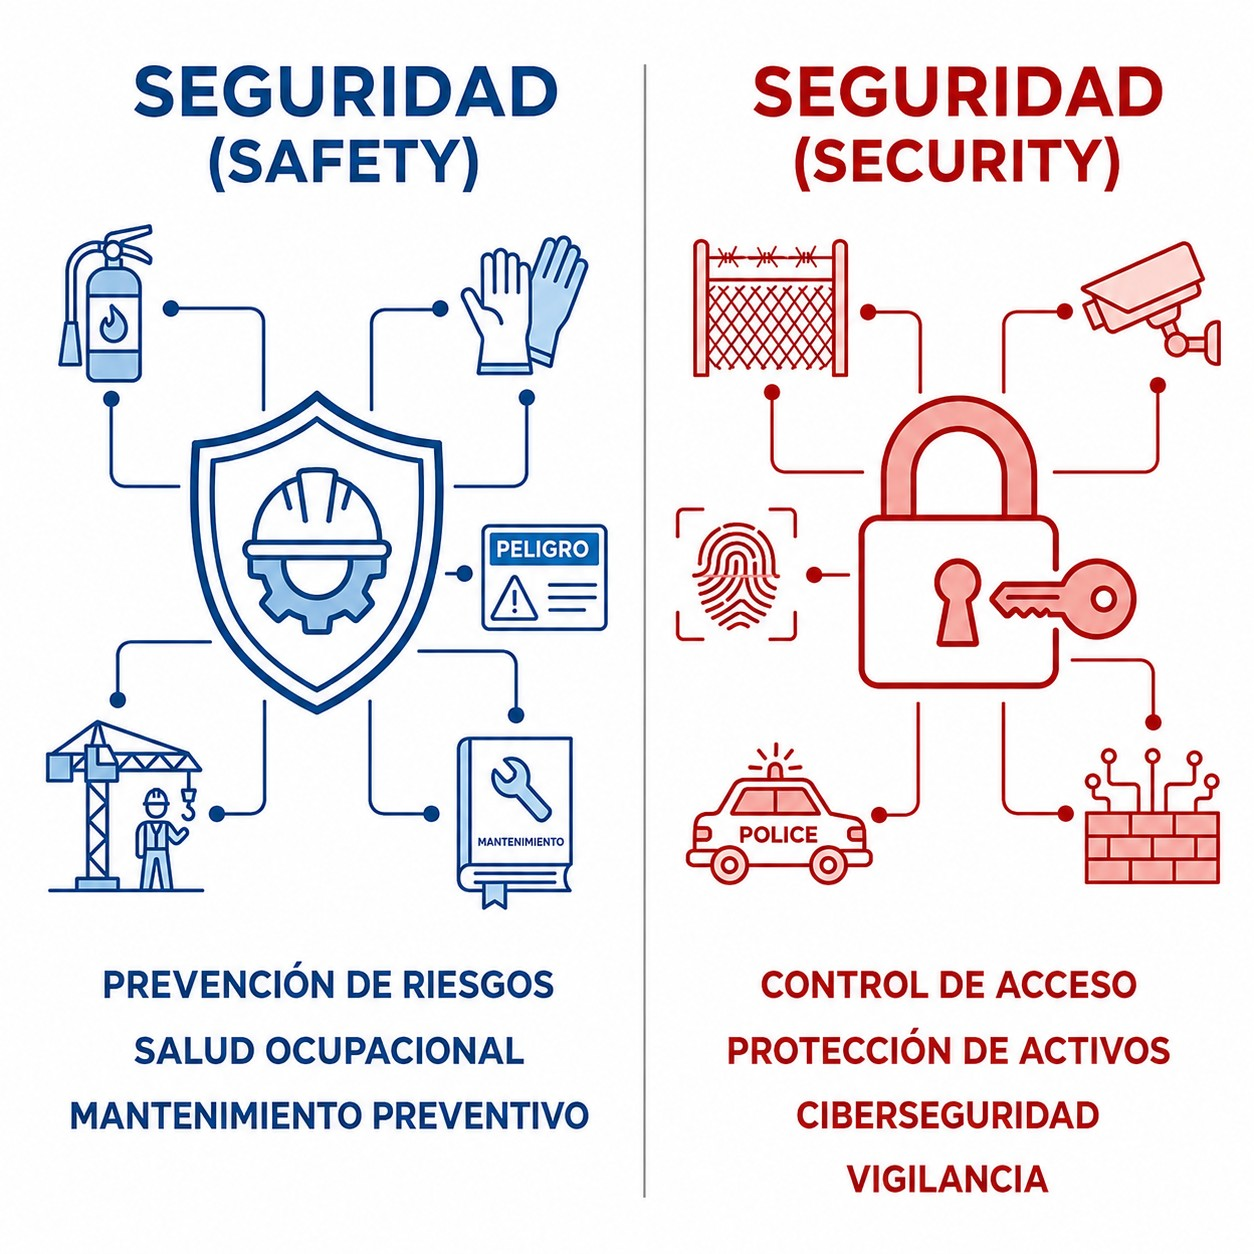
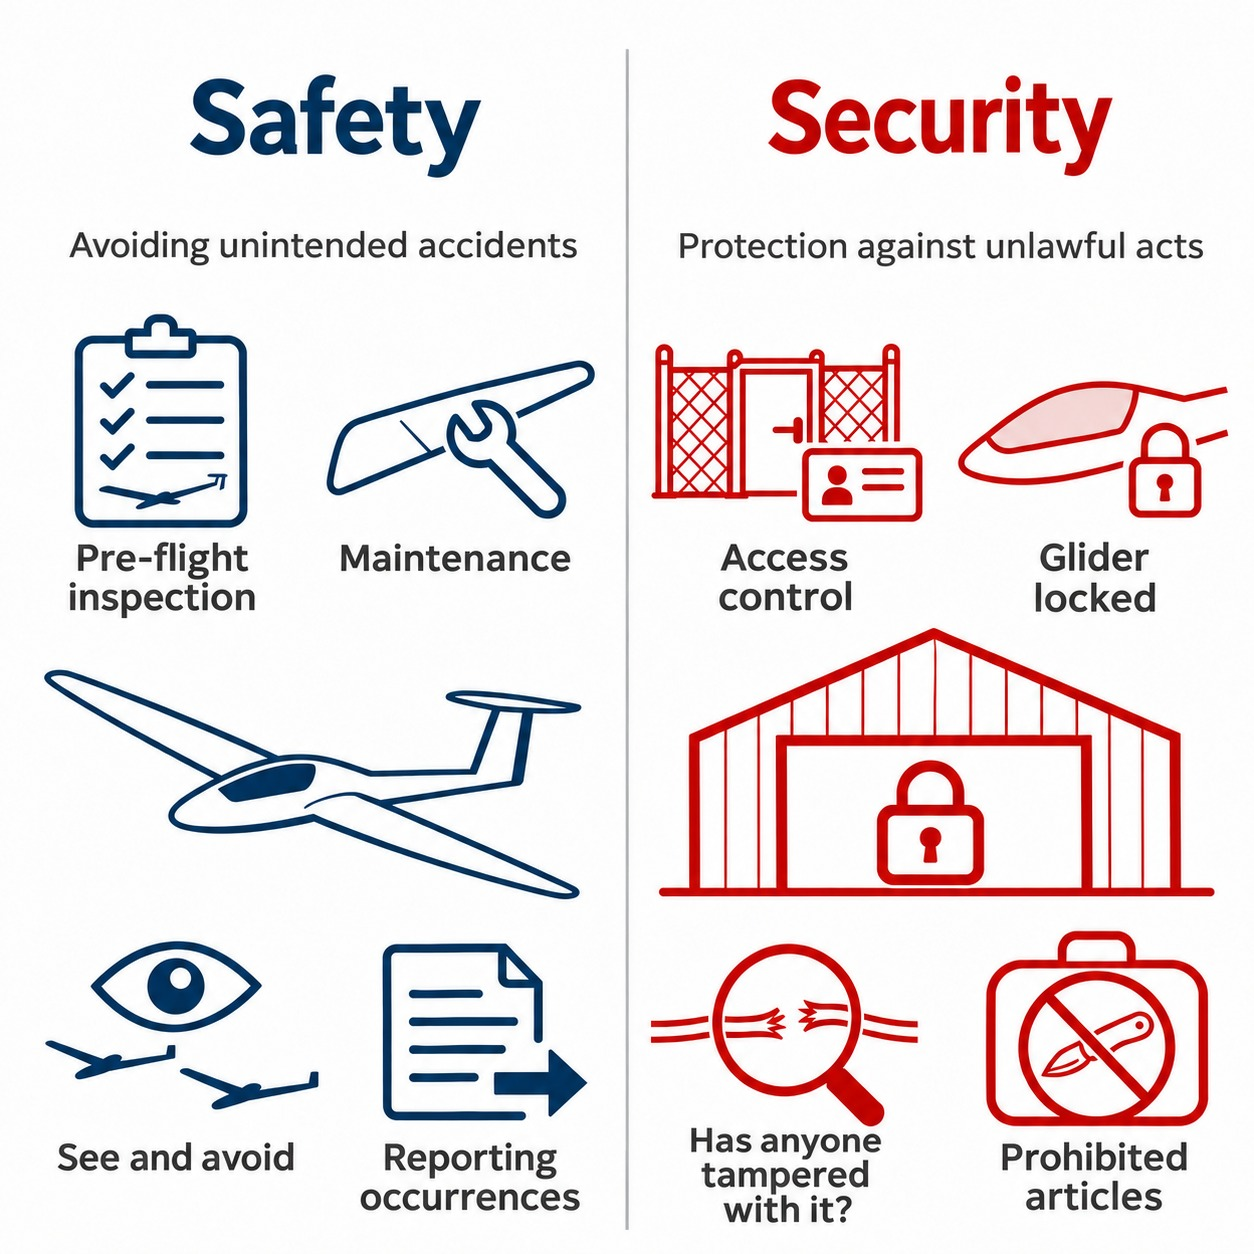
fix(01): sustituir las siete figuras ilustradas señaladas en la auditoría
Seis figuras se rehacen con ChatGPT a partir del prompt de su ficha, y la
inglesa es la española aceptada con los rótulos traducidos:

- cap01: libertades del aire; el país de la aeronave es siempre el «país
  de origen», también en la quinta, cuyo tramo entre B y C se destaca.
- cap05: prioridades de paso, con viñetas rotuladas, rumbos claros y
  quien cede en ámbar; alturas mínimas, con los 300 m desde el obstáculo
  más alto y el planeador de ladera a barlovento.
- cap08: dependencias ATC, con el ACC fuera del aeropuerto y la torre
  con el circuito.
- cap10: circuito de tránsito con un planeador, sin IP ni «tramo de
  entrada».
- cap12: safety frente a security, sin seguridad laboral ni
  ciberseguridad.

La ubicación de la matrícula (cap03) se conserva por decisión editorial;
la edición inglesa recibe el mismo dibujo con los rótulos traducidos. Su
ficha guarda los reparos de la auditoría como observaciones.

Las siete pierden la clase .corregir y la nota del pie en las dos
ediciones; ya no queda ninguna figura marcada en el libro 01. En cap05,
la remisión a la figura de prioridades pasa del caso del aterrizaje a la
frase que abre «Situaciones de conflicto». Fichas, seguimiento y los dos
CHANGELOG al día. Comprobadas en PDF, EPUB, RAG y web.

Refs #58

diff --git a/01-derecho-aereo-atc/prompts/01-cap05-prioridades-paso.prompt.md b/01-derecho-aereo-atc/prompts/01-cap05-prioridades-paso.prompt.md
@@ -5,7 +5,7 @@ tipo: diagrama-conceptual
 estado: borrador
 fecha: "2026-11-20"
 herramienta:
-  nombre: ""
+  nombre: "ChatGPT (chatgpt.com)"
   version: ""
 fuentes:
   - referencia: "Reglamento de Ejecución (UE) 923/2012 (SERA), SERA.3210 (recursos/fuentes/ue/reg-923-2012-sera-consol-2025-05-01.pdf)"
@@ -25,17 +25,26 @@ master_editable: ""
 **Qué enseña.** Quién cede el paso y cómo, en los tres encuentros entre planeadores: de frente,
 convergencia y alcance. Texto en `cap05-reglas-del-aire.qmd`, «2. Situaciones de conflicto».
 
-**Estado.** Marcada con `.corregir` desde el 1 de octubre de 2026 (COH-08). Se rehace con un
-generador de imágenes. La edición inglesa es hoy una copia de la española.
+**Estado.** Sustituida el 20 de noviembre de 2026 (issue #58) por una versión generada con
+ChatGPT, en las dos ediciones; se quitan la clase `.corregir` y la nota del pie. Estuvo marcada
+desde el 1 de octubre de 2026 (COH-08). Sigue en `borrador`: falta la revisión técnica de la
+figura nueva.
 
-## Qué falla en la figura actual
+## Procedencia
+
+Generada con ChatGPT (chatgpt.com) el 20-11-2026 con el prompt de esta ficha, sin retoques posteriores.
+La edición inglesa es la española aceptada, editada en la misma herramienta para sustituir
+sólo los rótulos por los de «Edición inglesa». La figura anterior no tenía la procedencia
+documentada.
+
+## Qué fallaba en la figura anterior
 
 * Las tres viñetas no llevan rótulo: no se sabe qué situación es cada una.
 * Las flechas no dejan claro el rumbo de cada planeador; en una, el planeador apunta en un sentido y
   la flecha va en otro.
 * El fondo de campos y ríos resta legibilidad y va contra la guía.
 
-## Prompt para rehacerla
+## Prompt
 
 Si el generador no respeta los rumbos, se dibuja por código como las demás: es una vista en planta
 con tres pares de siluetas y flechas.
@@ -67,11 +76,12 @@ etiquetas se lean a 9 pt al imprimirse.
 
 ## Al sustituirla
 
-La remisión `@fig-01-cap05-prioridades` está en la viñeta «Aterrizaje», una regla que la figura no
-muestra. Se mueve a la frase que abre «2. Situaciones de conflicto», en las dos ediciones.
+La remisión `@fig-01-cap05-prioridades` estaba en la viñeta «Aterrizaje», una regla que la figura
+no muestra. Ahora va en la frase que abre «2. Situaciones de conflicto», en las dos ediciones, y la
+figura sigue a esa frase, antes de la lista.
 
 ## Edición inglesa
 
 «Head-on: both turn right», «Converging: the one that has the other on its right gives way»,
-«Overtaking: the overtaking aircraft keeps clear», «Green: has right of way, maintains heading and
-speed», «Amber: gives way». Cotejar con la traducción del cap05.
+«Overtaking: the overtaking glider keeps clear», «Green: has right of way, maintains heading and
+speed», «Amber: gives way».

diff --git a/recursos/auditorias/seguimiento-libro-01.md b/recursos/auditorias/seguimiento-libro-01.md
@@ -132,24 +132,24 @@ La lista de tareas para rehacerlas, con su versión inglesa, está en el issue [
 
 | Capítulo | Figura | Hallazgo | Sustituida en |
 | --- | --- | --- | --- |
-| cap01 | `01-cap01-libertades-chicago` | PED-04 | |
+| cap01 | `01-cap01-libertades-chicago` | PED-04 | issue #58, 20 nov 2026 (ChatGPT) |
 | cap01 | `01-cap01-estructura-normativa-easa` | PED-04 | issue #58, 20 nov 2026 (por código, PNG) |
 | cap02 | `01-cap02-certificado-aeronavegabilidad` | COH-07 | issue #58, 20 nov 2026 (por código, PNG) |
 | cap02 | `01-cap02-ciclo-arc` | COH-04 | issue #58, 20 nov 2026 (por código, PNG) |
-| cap03 | `01-cap03-ubicacion-matricula` | COH-06 | |
+| cap03 | `01-cap03-ubicacion-matricula` | COH-06 | issue #58, 20 nov 2026 (se conserva; sólo se traduce la inglesa) |
 | cap04 | `01-cap04-validez-medical` | PED-07 | issue #58, 20 nov 2026 (por código, PNG) |
 | cap04 | `01-cap04-recencia-requisitos` | SYL-01 | issue #58, 20 nov 2026 (por código, PNG) |
-| cap05 | `01-cap05-prioridades-paso` | COH-08 | |
-| cap05 | `01-cap05-alturas-minimas` | TEC-03, NOR-08 | |
+| cap05 | `01-cap05-prioridades-paso` | COH-08 | issue #58, 20 nov 2026 (ChatGPT) |
+| cap05 | `01-cap05-alturas-minimas` | TEC-03, NOR-08 | issue #58, 20 nov 2026 (ChatGPT) |
 | cap06 | `01-cap06-minimos-vmc` | TEC-04 | issue #58, 20 nov 2026 (por código, PNG) |
 | cap06 | `01-cap06-regla-semicircular` | COH-01 | issue #58, 20 nov 2026 (por código, PNG) |
-| cap08 | `01-cap08-dependencias-atc` | PED-10 | |
+| cap08 | `01-cap08-dependencias-atc` | PED-10 | issue #58, 20 nov 2026 (ChatGPT) |
 | cap08 | `01-cap08-fases-emergencia` | NOR-12, PED-10 | issue #58, 20 nov 2026 (por código, PNG) |
 | cap09 | `01-cap09-ejemplo-notam` | PED-11 | issue #58, 20 nov 2026 (por código, PNG) |
-| cap10 | `01-cap10-circuito-transito` | PED-12 | |
+| cap10 | `01-cap10-circuito-transito` | PED-12 | issue #58, 20 nov 2026 (ChatGPT) |
 | cap10 | `01-cap10-manga-viento` | TEC-14 | issue #58, 20 nov 2026 (por código, PNG) |
 | cap10 | `01-cap10-senales-aerodromo` | TEC-06 | issue #58, 20 nov 2026 (por código, PNG) |
-| cap12 | `01-cap12-safety-security` | PED-14 | |
+| cap12 | `01-cap12-safety-security` | PED-14 | issue #58, 20 nov 2026 (ChatGPT) |
 | cap13 | `01-cap13-piramide-sucesos` | TEC-15 | issue #58, 20 nov 2026 (por código, PNG) |
 | cap13 | `01-cap13-flujo-notificacion` | NOR-05 | issue #58, 20 nov 2026 (por código, PNG) |
 | cap14 | `01-cap14-escala-infracciones` | NOR-06 | issue #58, 20 nov 2026 (por código, PNG) |

diff --git a/01-derecho-aereo-atc/prompts/01-cap05-alturas-minimas.prompt.md b/01-derecho-aereo-atc/prompts/01-cap05-alturas-minimas.prompt.md
@@ -5,7 +5,7 @@ tipo: diagrama-conceptual
 estado: borrador
 fecha: "2026-11-20"
 herramienta:
-  nombre: ""
+  nombre: "ChatGPT (chatgpt.com)"
   version: ""
 fuentes:
   - referencia: "Reglamento de Ejecución (UE) 923/2012 (SERA), SERA.5005 f) (recursos/fuentes/ue/reg-923-2012-sera-consol-2025-05-01.pdf)"
@@ -28,10 +28,25 @@ master_editable: ""
 excepción española del vuelo de ladera. Texto en `cap05-reglas-del-aire.qmd`, «Alturas mínimas de
 vuelo» y «Excepciones para el vuelo a vela».
 
-**Estado.** Marcada con `.corregir` desde el 1 de octubre de 2026 (TEC-03, NOR-08). Se rehace con un
-generador de imágenes. La edición inglesa es hoy una copia de la española.
+**Estado.** Sustituida el 20 de noviembre de 2026 (issue #58) por una versión generada con
+ChatGPT, en las dos ediciones; se quitan la clase `.corregir` y la nota del pie. Estuvo marcada
+desde el 1 de octubre de 2026 (TEC-03, NOR-08). Sigue en `borrador`: falta la revisión técnica de la
+figura nueva.
 
-## Qué falla en la figura actual
+## Procedencia
+
+Generada con ChatGPT (chatgpt.com) el 20-11-2026 con el prompt de esta ficha, sin retoques posteriores.
+La edición inglesa es la española aceptada, editada en la misma herramienta para sustituir
+sólo los rótulos por los de «Edición inglesa». La figura anterior no tenía la procedencia
+documentada.
+
+**Diferencias con el encargo.** La figura aceptada no lleva el rótulo «Sotavento: el aire baja» ni
+las flechas que bajan tras la cresta, y no dibuja el planeador sobre la población: la cota del
+radio de 600 m no parte de él. Las dos correcciones de la auditoría (planeador a barlovento y
+300 m desde el obstáculo más alto) sí están. Si en la revisión técnica se echa de menos el
+sotavento, se pide en la misma conversación.
+
+## Qué fallaba en la figura anterior
 
 * El planeador de ladera está a sotavento, donde el aire baja. Debe estar a barlovento, donde el
   viento choca con la ladera y sube.
@@ -39,7 +54,7 @@ generador de imágenes. La edición inglesa es hoy una copia de la española.
   en un radio de 600 m.
 * En campo abierto falta «o sobre el obstáculo más alto en un radio de 150 m».
 
-## Prompt para rehacerla
+## Prompt
 
 Si el generador no coloca las cotas donde se piden, se dibuja por código: es un perfil con tres
 cotas.

diff --git a/01-derecho-aereo-atc/prompts/01-cap01-libertades-chicago.prompt.md b/01-derecho-aereo-atc/prompts/01-cap01-libertades-chicago.prompt.md
@@ -5,7 +5,7 @@ tipo: diagrama-conceptual
 estado: borrador
 fecha: "2026-11-20"
 herramienta:
-  nombre: ""
+  nombre: "ChatGPT (chatgpt.com)"
   version: ""
 fuentes:
   - referencia: "OACI, Doc 7300/9, Convenio sobre Aviación Civil Internacional, y acuerdos anejos de tránsito y de transporte (recursos/fuentes/oaci/oaci-doc-7300-9-convenio-chicago.pdf)"
@@ -26,11 +26,19 @@ master_editable: ""
 Chicago. Texto en `cap01-derecho-internacional-convenios-acuerdos-y-organizaciones.qmd`, «El origen
 de las normas: Convenio de Chicago y OACI».
 
-**Estado.** Marcada con `.corregir` desde el 1 de octubre de 2026 (PED-04). Se rehace con un
-generador de imágenes, a partir de la figura actual. La edición inglesa es hoy una copia de la
-española.
+**Estado.** Sustituida el 20 de noviembre de 2026 (issue #58) por una versión generada con
+ChatGPT, en las dos ediciones; se quitan la clase `.corregir` y la nota del pie. Estuvo marcada
+desde el 1 de octubre de 2026 (PED-04). Sigue en `borrador`: falta la revisión técnica de la
+figura nueva.
 
-## Qué falla en la figura actual
+## Procedencia
+
+Generada con ChatGPT (chatgpt.com) el 20-11-2026 con el prompt de esta ficha y la figura anterior adjunta, sin retoques posteriores.
+La edición inglesa es la española aceptada, editada en la misma herramienta para sustituir
+sólo los rótulos por los de «Edición inglesa». La figura anterior no tenía la procedencia
+documentada.
+
+## Qué fallaba en la figura anterior
 
 * En la quinta libertad, el país azul (el de la aeronave, como en las otras cuatro) se rotula «país
   extranjero A». Debe ser «país de origen».
@@ -39,7 +47,7 @@ española.
 * El título dice «5 libertades… Convenio de Chicago»; el texto explica que hoy se reconocen nueve y
   que Chicago definió las cinco primeras.
 
-## Prompt para rehacerla
+## Prompt
 
 Se adjunta la figura actual y se pide conservar la composición: cinco bandas numeradas, una por
 libertad.

diff --git a/01-derecho-aereo-atc/prompts/01-cap08-dependencias-atc.prompt.md b/01-derecho-aereo-atc/prompts/01-cap08-dependencias-atc.prompt.md
@@ -5,7 +5,7 @@ tipo: diagrama-conceptual
 estado: borrador
 fecha: "2026-11-20"
 herramienta:
-  nombre: ""
+  nombre: "ChatGPT (chatgpt.com)"
   version: ""
 fuentes:
   - referencia: "AIP España, GEN 3.3 (recursos/fuentes/aip/aip-espana-GEN_3_3_es.pdf)"
@@ -25,18 +25,26 @@ master_editable: ""
 **Qué enseña.** Las tres dependencias del servicio de control y la fase de vuelo de cada una. Texto
 en `cap08-servicio-de-transito-aereo.qmd`, «1. Servicio de control (ATC)».
 
-**Estado.** Marcada con `.corregir` desde el 1 de octubre de 2026 (PED-10). Se rehace con un
-generador de imágenes, a partir de la figura actual. La edición inglesa es hoy una copia de la
-española.
+**Estado.** Sustituida el 20 de noviembre de 2026 (issue #58) por una versión generada con
+ChatGPT, en las dos ediciones; se quitan la clase `.corregir` y la nota del pie. Estuvo marcada
+desde el 1 de octubre de 2026 (PED-10). Sigue en `borrador`: falta la revisión técnica de la
+figura nueva.
 
-## Qué falla en la figura actual
+## Procedencia
+
+Generada con ChatGPT (chatgpt.com) el 20-11-2026 con el prompt de esta ficha y la figura anterior adjunta, sin retoques posteriores.
+La edición inglesa es la española aceptada, editada en la misma herramienta para sustituir
+sólo los rótulos por los de «Edición inglesa». La figura anterior no tenía la procedencia
+documentada.
+
+## Qué fallaba en la figura anterior
 
 * Dibuja el ACC como una terminal de aeropuerto con torre. Es un centro de control, en un edificio
   propio, lejos de los aeropuertos.
 * Rotula la torre «TWR - Suelo» y «gestión de pista y rodaje». La torre controla el aeródromo y el
   circuito: despegues, aterrizajes, rodaje y el tránsito del circuito.
 
-## Prompt para rehacerla
+## Prompt
 
 ```text
 Genera una ilustración didáctica para un manual teórico de piloto de planeador SPL, a partir de la imagen adjunta.

diff --git a/01-derecho-aereo-atc/prompts/01-cap12-safety-security.prompt.md b/01-derecho-aereo-atc/prompts/01-cap12-safety-security.prompt.md
@@ -5,7 +5,7 @@ tipo: diagrama-conceptual
 estado: borrador
 fecha: "2026-11-20"
 herramienta:
-  nombre: ""
+  nombre: "ChatGPT (chatgpt.com)"
   version: ""
 fuentes:
   - referencia: "Reglamento (CE) 300/2008, arts. 1 y 3 (recursos/fuentes/ue/reg-300-2008-security-consol-2026-08-02.pdf)"
@@ -26,16 +26,25 @@ master_editable: ""
 intencionados) y *security* (seguridad de la aviación: protegerse de actos ilícitos). Texto en
 `cap12-seguridad.qmd`, «Safety vs security: ¿no es lo mismo?».
 
-**Estado.** Marcada con `.corregir` desde el 1 de octubre de 2026 (PED-14). Se rehace con un
-generador de imágenes. La edición inglesa es hoy una copia de la española.
+**Estado.** Sustituida el 20 de noviembre de 2026 (issue #58) por una versión generada con
+ChatGPT, en las dos ediciones; se quitan la clase `.corregir` y la nota del pie. Estuvo marcada
+desde el 1 de octubre de 2026 (PED-14). Sigue en `borrador`: falta la revisión técnica de la
+figura nueva.
 
-## Qué falla en la figura actual
+## Procedencia
+
+Generada con ChatGPT (chatgpt.com) el 20-11-2026 con el prompt de esta ficha, sin retoques posteriores.
+La edición inglesa es la española aceptada, editada en la misma herramienta para sustituir
+sólo los rótulos por los de «Edición inglesa». La figura anterior no tenía la procedencia
+documentada.
+
+## Qué fallaba en la figura anterior
 
 * Ilustra la *safety* como seguridad laboral: casco de obra, grúa, guantes, «Salud ocupacional».
   En aviación es la prevención de accidentes en vuelo y en tierra.
 * La *security* lleva ciberseguridad y un coche con «POLICE», ajenos al capítulo.
 
-## Prompt para rehacerla
+## Prompt
 
 ```text
 Genera una ilustración didáctica para un manual teórico de piloto de planeador SPL.

diff --git a/01-derecho-aereo-atc/prompts/01-cap10-circuito-transito.prompt.md b/01-derecho-aereo-atc/prompts/01-cap10-circuito-transito.prompt.md
@@ -5,7 +5,7 @@ tipo: diagrama-conceptual
 estado: borrador
 fecha: "2026-11-20"
 herramienta:
-  nombre: ""
+  nombre: "ChatGPT (chatgpt.com)"
   version: ""
 fuentes:
   - referencia: "Texto del cap10 y Libro 6, capítulo 4 (criterios de instrucción del circuito)"
@@ -27,16 +27,25 @@ incorporación a 45° al de viento en cola. Texto en
 `cap10-aerodromos-y-campos-de-despegue-externos.qmd`, «El circuito de tránsito (Traffic Pattern)» y
 «Fases clave para el planeador».
 
-**Estado.** Marcada con `.corregir` desde el 1 de octubre de 2026 (PED-12). Se rehace con un
-generador de imágenes. La edición inglesa es hoy una copia de la española.
+**Estado.** Sustituida el 20 de noviembre de 2026 (issue #58) por una versión generada con
+ChatGPT, en las dos ediciones; se quitan la clase `.corregir` y la nota del pie. Estuvo marcada
+desde el 1 de octubre de 2026 (PED-12). Sigue en `borrador`: falta la revisión técnica de la
+figura nueva.
 
-## Qué falla en la figura actual
+## Procedencia
+
+Generada con ChatGPT (chatgpt.com) el 20-11-2026 con el prompt de esta ficha, sin retoques posteriores.
+La edición inglesa es la española aceptada, editada en la misma herramienta para sustituir
+sólo los rótulos por los de «Edición inglesa». La figura anterior no tenía la procedencia
+documentada.
+
+## Qué fallaba en la figura anterior
 
 * Dibuja un bimotor, no un planeador.
 * Introduce el punto inicial (IP) y el «tramo de entrada», que el texto no explica.
 * Repite el circuito en planta y en perspectiva, con montañas de fondo; basta la planta.
 
-## Prompt para rehacerla
+## Prompt
 
 ```text
 Genera una ilustración didáctica para un manual teórico de piloto de planeador SPL.

diff --git a/en/01-air-law-atc/CHANGELOG-01-en.md b/en/01-air-law-atc/CHANGELOG-01-en.md
@@ -38,6 +38,18 @@ was translated from (`origen-commit`). Terminology follows `en/terminologia.yml`
   and a new caption). All are now PNG; the windsock and the signals already were. The English text
   of EASA Form 25 is still to be checked against EUR-Lex. Issue #58.
 * **cap10** — in the signals table, 3 knots are 5.6 km/h, not 5.5.
+* **cap01–cap12, six illustrations** — redrawn with an image generator (ChatGPT), now with English
+  labels, and stripped of the mark and the note: the freedoms of the air (the aircraft's country is
+  always the “home country”, also in the fifth freedom, whose leg between B and C is highlighted);
+  right of way (labelled panels and clear headings, with the glider that gives way in amber);
+  minimum heights (the 300 m are measured from the highest obstacle and the ridge-soaring glider
+  flies on the windward side); ATC units (the ACC away from the airport and the tower with the
+  circuit); the traffic circuit (a glider, with no IP or “joining leg”); and safety versus security
+  (no workplace safety or cybersecurity). In cap05, the reference to the right-of-way figure moves
+  from the landing case, which it does not show, to the sentence that opens “Conflict situations”.
+  Issue #58.
+* **cap03, location of registration marks** — the drawing is kept, now with English labels, and
+  loses the mark and the note in the caption. Issue #58.
 
 ### Layout and production
 

diff --git a/01-derecho-aereo-atc/CHANGELOG-01.md b/01-derecho-aereo-atc/CHANGELOG-01.md
@@ -39,6 +39,17 @@ rompe la compilación.
   faltaban); y la pirámide de sucesos (categorías del Reglamento 996/2010 y Heinrich como nota,
   con pie nuevo). Todas salen en PNG, salvo la manga y las señales, que ya lo eran. Issue #58.
 * **cap10** — en la tabla de señales, 3 nudos son 5,6 km/h, no 5,5.
+* **cap01–cap12, seis figuras ilustradas** — se rehacen con un generador de imágenes (ChatGPT) y
+  pierden la marca y la nota: las libertades del aire (el país de la aeronave es siempre el «país
+  de origen», también en la quinta, cuyo tramo entre B y C se destaca); las prioridades de paso
+  (viñetas rotuladas y rumbos claros, con quien cede en ámbar); las alturas mínimas (los 300 m se
+  miden desde el obstáculo más alto y el planeador de ladera vuela a barlovento); las dependencias
+  ATC (el ACC fuera del aeropuerto y la torre con el circuito); el circuito de tránsito (un
+  planeador, sin IP ni «tramo de entrada»); y *safety* frente a *security* (sin seguridad laboral
+  ni ciberseguridad). En cap05, la remisión a la figura de prioridades pasa del caso del aterrizaje,
+  que no dibuja, a la frase que abre «Situaciones de conflicto». Issue #58.
+* **cap03, ubicación de la matrícula** — se conserva la figura y se quitan la marca y la nota del
+  pie. Issue #58.
 
 ### Maqueta y producción
 

diff --git a/01-derecho-aereo-atc/prompts/01-cap03-ubicacion-matricula.prompt.md b/01-derecho-aereo-atc/prompts/01-cap03-ubicacion-matricula.prompt.md
@@ -27,10 +27,13 @@ master_editable: ""
 colores de España. Texto en `cap03-marcas-de-nacionalidad-y-matricula-de-aeronaves.qmd`, «Ubicación
 y dimensiones de las marcas» y «La bandera de España».
 
-**Estado.** Marcada con `.corregir` desde el 1 de octubre de 2026 (COH-06). Se rehace con un
-generador de imágenes. La edición inglesa es hoy una copia de la española.
+**Estado.** Marcada con `.corregir` desde el 1 de octubre de 2026 (COH-06). El 20 de noviembre de
+2026 (issue #58) Ramón da la figura española por buena sin rehacerla y se quitan la clase
+`.corregir` y la nota del pie en las dos ediciones. La edición inglesa pasa a ser esta misma figura
+con los rótulos traducidos (ChatGPT, 20-11-2026). Sigue en `borrador`. Los reparos de la auditoría,
+abajo, quedan como observaciones: si se rehace, el prompt de esta ficha sigue valiendo.
 
-## Qué falla en la figura actual
+## Observaciones de la auditoría
 
 * Las marcas del ala van en la cara superior (extradós); van en el intradós, la cara inferior, del
   ala izquierda o abarcando las dos.
